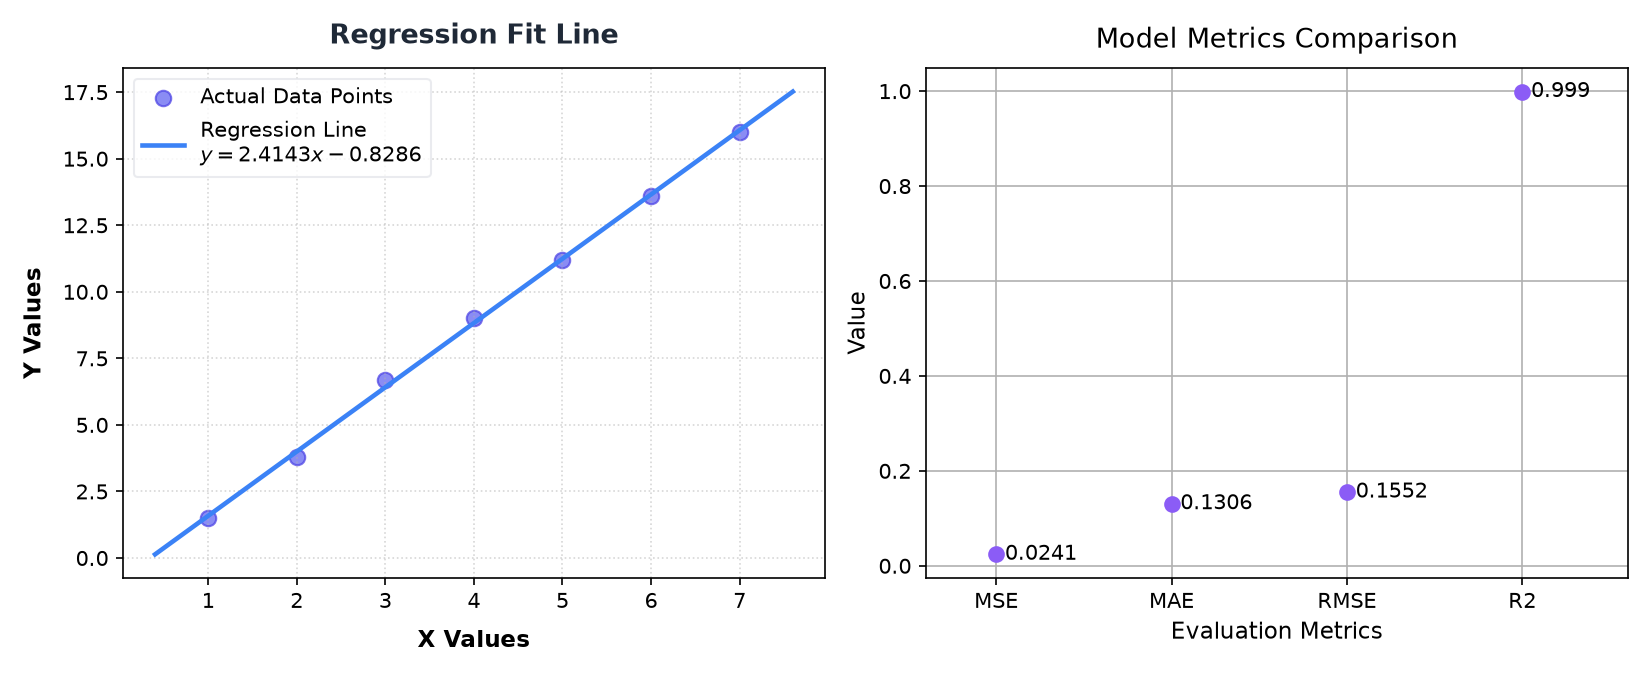
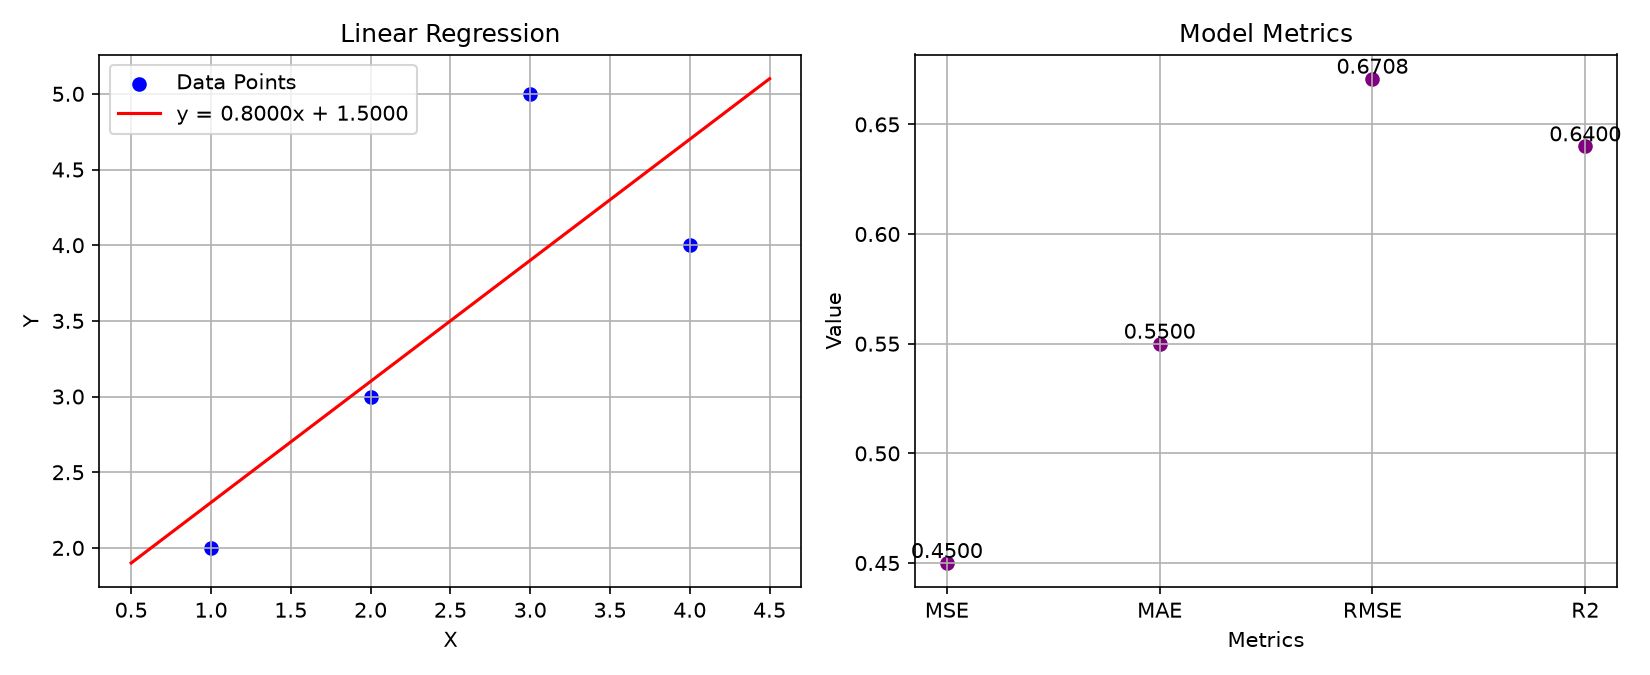
Simplify code to take exactly 4 data points and use loop-based calculations matching the lab manual

diff --git a/EXPT-1/index.html b/EXPT-1/index.html
@@ -90,8 +90,8 @@
                 throw new Error(`Length mismatch: X has ${x.length} values, Y has ${y.length} values.`);
             }
 
-            if (x.length === 0) {
-                throw new Error("Arrays cannot be empty.");
+            if (x.length !== 4) {
+                throw new Error(`Exactly 4 data points are required. Currently, you have entered ${x.length}.`);
             }
 
             return { x, y };
@@ -161,44 +161,61 @@
                 }
 
                 const n = x.length;
-                const meanX = x.reduce((a, b) => a + b, 0) / n;
-                const meanY = y.reduce((a, b) => a + b, 0) / n;
-
-                let numerator = 0;
-                let denominator = 0;
+                
+                let sumX = 0;
+                let sumY = 0;
+                let sumXY = 0;
+                let sumXX = 0;
                 for (let i = 0; i < n; i++) {
-                    numerator += (x[i] - meanX) * (y[i] - meanY);
-                    denominator += Math.pow(x[i] - meanX, 2);
+                    sumX += x[i];
+                    sumY += y[i];
+                    sumXY += x[i] * y[i];
+                    sumXX += x[i] * x[i];
                 }
-
+                
+                const denominator = (n * sumXX) - (sumX * sumX);
                 if (denominator === 0) {
-                    throw new Error("Cannot calculate regression slope (all X values are identical).");
+                    throw new Error("Cannot calculate regression slope (denominator is 0).");
                 }
-
-                const m = numerator / denominator;
-                const c = meanY - (m * meanX);
-                const yPred = x.map(val => m * val + c);
-
-                let absErrSum = 0;
-                let sqErrSum = 0;
-                let totVarSum = 0;
-
+                
+                const m = ((n * sumXY) - (sumX * sumY)) / denominator;
+                const c = (sumY - (m * sumX)) / n;
+                
+                const yPred = [];
                 for (let i = 0; i < n; i++) {
-                    const diff = y[i] - yPred[i];
-                    absErrSum += Math.abs(diff);
-                    sqErrSum += Math.pow(diff, 2);
-                    totVarSum += Math.pow(y[i] - meanY, 2);
+                    yPred.push(m * x[i] + c);
                 }
-
-                const mae = absErrSum / n;
-                const mse = sqErrSum / n;
+                
+                let maeSum = 0;
+                let mseSum = 0;
+                for (let i = 0; i < n; i++) {
+                    const error = y[i] - yPred[i];
+                    maeSum += Math.abs(error);
+                    mseSum += Math.pow(error, 2);
+                }
+                
+                const mae = maeSum / n;
+                const mse = mseSum / n;
                 const rmse = Math.sqrt(mse);
-
+                
+                let sumY_val = 0;
+                for (let i = 0; i < n; i++) {
+                    sumY_val += y[i];
+                }
+                const meanY = sumY_val / n;
+                
+                let ss_res = 0;
+                let ss_tot = 0;
+                for (let i = 0; i < n; i++) {
+                    ss_res += Math.pow(y[i] - yPred[i], 2);
+                    ss_tot += Math.pow(y[i] - meanY, 2);
+                }
+                
                 let r2;
-                if (totVarSum === 0) {
-                    r2 = sqErrSum === 0 ? 1.0 : -Infinity;
+                if (ss_tot === 0) {
+                    r2 = ss_res === 0 ? 1.0 : -Infinity;
                 } else {
-                    r2 = 1.0 - (sqErrSum / totVarSum);
+                    r2 = 1.0 - (ss_res / ss_tot);
                 }
 
                 const cSign = c >= 0 ? '+' : '-';

diff --git a/EXPT-1/app.py b/EXPT-1/app.py
@@ -1,8 +1,6 @@
 from flask import Flask, request, jsonify, send_from_directory
-import os
 import io
 import base64
-import numpy as np
 import matplotlib
 matplotlib.use('Agg')
 import matplotlib.pyplot as plt
@@ -10,134 +8,89 @@ import matplotlib.pyplot as plt
 app = Flask(__name__, static_folder='.', static_url_path='')
 
 def calculate_linear_regression(x, y):
-    x_arr = np.asarray(x, dtype=float)
-    y_arr = np.asarray(y, dtype=float)
-    n = len(x_arr)
-    if n == 0:
-        raise ValueError("Data lists cannot be empty.")
-    if len(x_arr) != len(y_arr):
-        raise ValueError("X and Y lists must have the same length.")
+    n = 4
+    sumX, sumY = sum(x), sum(y)
+    sumXY = sum(x[i] * y[i] for i in range(n))
+    sumXX = sum(x[i]**2 for i in range(n))
     
-    mean_x = np.mean(x_arr)
-    mean_y = np.mean(y_arr)
-    numerator = np.sum((x_arr - mean_x) * (y_arr - mean_y))
-    denominator = np.sum((x_arr - mean_x) ** 2)
-    if denominator == 0:
-        raise ValueError("Cannot calculate slope (all X values are identical, resulting in a vertical line).")
-    m = numerator / denominator
-    c = mean_y - m * mean_x
-    return float(m), float(c)
+    denom = (n * sumXX) - (sumX**2)
+    if denom == 0:
+        raise ValueError("Denominator is 0.")
+        
+    m = ((n * sumXY) - (sumX * sumY)) / denom
+    c = (sumY - m * sumX) / n
+    return m, c
 
-def calculate_metrics(y_true, y_pred):
-    y_true = np.asarray(y_true, dtype=float)
-    y_pred = np.asarray(y_pred, dtype=float)
-    n = len(y_true)
-    if n == 0:
-        raise ValueError("Input lists cannot be empty.")
-    if len(y_true) != len(y_pred):
-        raise ValueError("y_true and y_pred lists must have the same length.")
+def calculate_metrics(y, y_pred):
+    n = 4
+    mae = sum(abs(y[i] - y_pred[i]) for i in range(n)) / n
+    mse = sum((y[i] - y_pred[i])**2 for i in range(n)) / n
+    rmse = mse**0.5
     
-    mean_y_true = np.mean(y_true)
-    mae = np.mean(np.abs(y_true - y_pred))
-    mse = np.mean((y_true - y_pred) ** 2)
-    rmse = np.sqrt(mse)
+    mean_y = sum(y) / n
+    ss_res = sum((y[i] - y_pred[i])**2 for i in range(n))
+    ss_tot = sum((y[i] - mean_y)**2 for i in range(n))
+    r_squared = 1 - (ss_res / ss_tot) if ss_tot != 0 else 1.0
     
-    ss_residual = np.sum((y_true - y_pred) ** 2)
-    ss_total = np.sum((y_true - mean_y_true) ** 2)
-    
-    if ss_total == 0:
-        r_squared = 1.0 if ss_residual == 0 else float('-inf')
-    else:
-        r_squared = 1.0 - (ss_residual / ss_total)
-    
-    return float(mae), float(mse), float(rmse), float(r_squared)
+    return mae, mse, rmse, r_squared
 
 def generate_metrics_graph(x, y, m, c, mae, mse, rmse, r_squared):
-    x_arr = np.asarray(x, dtype=float)
-    y_arr = np.asarray(y, dtype=float)
-    
     fig, (ax1, ax2) = plt.subplots(1, 2, figsize=(11, 4.5))
     
-    ax1.scatter(x_arr, y_arr, color='#6366f1', edgecolor='#4f46e5', s=55, alpha=0.75, label='Actual Data Points')
+    # Left subplot: Regression Fit Line
+    ax1.scatter(x, y, color='blue', label='Data Points')
+    x_line = [min(x) - 0.5, max(x) + 0.5]
+    y_line = [m * val + c for val in x_line]
+    ax1.plot(x_line, y_line, color='red', label=f'y = {m:.4f}x + {c:.4f}')
+    ax1.set_title('Linear Regression')
+    ax1.set_xlabel('X')
+    ax1.set_ylabel('Y')
+    ax1.legend()
+    ax1.grid(True)
     
-    min_x = x_arr.min()
-    max_x = x_arr.max()
-    padding_x = (max_x - min_x) * 0.1 if max_x != min_x else 1.0
-    x_line = np.linspace(min_x - padding_x, max_x + padding_x, 100)
-    y_line = m * x_line + c
-    
-    c_sign = '+' if c >= 0 else '-'
-    line_label = f'Regression Line\n$y = {m:.4f}x {c_sign} {abs(c):.4f}$'
-    ax1.plot(x_line, y_line, color='#3b82f6', linestyle='-', linewidth=2.2, label=line_label)
-    
-    ax1.set_xlabel('X Values', fontsize=11, fontweight='bold', labelpad=8)
-    ax1.set_ylabel('Y Values', fontsize=11, fontweight='bold', labelpad=8)
-    ax1.set_title('Regression Fit Line', fontsize=13, fontweight='bold', pad=12, color='#1f2937')
-    ax1.legend(loc='best', frameon=True, facecolor='#ffffff', edgecolor='#e5e7eb')
-    ax1.grid(True, linestyle=':', alpha=0.5)
-    
+    # Right subplot: Model Metrics
     metrics_labels = ['MSE', 'MAE', 'RMSE', 'R2']
     metrics_values = [mse, mae, rmse, r_squared]
-    
-    ax2.plot(metrics_labels, metrics_values, 'o', color='#8b5cf6', markersize=7)
-    
-    ax2.set_xlabel('Evaluation Metrics', fontsize=11, fontweight='normal')
-    ax2.set_ylabel('Value', fontsize=11, fontweight='normal')
-    ax2.set_title('Model Metrics Comparison', fontsize=13, fontweight='normal', pad=10)
-    ax2.grid(True)
-    ax2.set_xlim(-0.4, 3.6)
-    
+    ax2.scatter(metrics_labels, metrics_values, color='purple')
     for i, val in enumerate(metrics_values):
-        if metrics_labels[i] == 'R2' and (r_squared == float('-inf') or np.isneginf(r_squared)):
-            text_str = '-inf'
-        else:
-            text_str = f"{val:.4f}"
-            while text_str.endswith('0') and len(text_str.split('.')[1]) > 2:
-                text_str = text_str[:-1]
-        
-        ax2.text(i + 0.05, val, text_str, fontsize=10, va='center', ha='left')
+        ax2.text(metrics_labels[i], val, f"{val:.4f}", va='bottom', ha='center')
+    ax2.set_title('Model Metrics')
+    ax2.set_xlabel('Metrics')
+    ax2.set_ylabel('Value')
+    ax2.grid(True)
     
     plt.tight_layout()
-    
     buf = io.BytesIO()
     plt.savefig(buf, format='png', dpi=150)
     plt.close(fig)
-    buf.seek(0)
-    
-    img_base64 = base64.b64encode(buf.getvalue()).decode('utf-8')
-    return img_base64
+    return base64.b64encode(buf.getvalue()).decode('utf-8')
+
 @app.route('/')
 def index():
     return send_from_directory(app.static_folder, 'index.html')
+
 @app.route('/calculate', methods=['POST'])
 def calculate():
     try:
-        data = request.get_json()
-        if not data:
-            return jsonify({'status': 'error', 'message': 'No inputs provided.'}), 400
-        x = data.get('x', [])
-        y = data.get('y', [])
+        data = request.get_json() or {}
+        x, y = data.get('x', []), data.get('y', [])
+        if len(x) != 4 or len(y) != 4:
+            return jsonify({'status': 'error', 'message': 'Exactly 4 data points are required.'}), 400
+        
         m, c = calculate_linear_regression(x, y)
-        x_arr = np.asarray(x, dtype=float)
-        y_pred_arr = m * x_arr + c
-        y_pred = y_pred_arr.tolist()
+        y_pred = [m * val + c for val in x]
         mae, mse, rmse, r_squared = calculate_metrics(y, y_pred)
         graph_base64 = generate_metrics_graph(x, y, m, c, mae, mse, rmse, r_squared)
+        
         return jsonify({
             'status': 'success',
-            'm': m,
-            'c': c,
-            'mae': mae,
-            'mse': mse,
-            'rmse': rmse,
-            'r_squared': r_squared,
+            'm': m, 'c': c,
+            'mae': mae, 'mse': mse, 'rmse': rmse, 'r_squared': r_squared,
             'y_pred': y_pred,
             'metrics_graph': graph_base64
         })
     except Exception as e:
-        return jsonify({
-            'status': 'error',
-            'message': str(e)
-        }), 400
+        return jsonify({'status': 'error', 'message': str(e)}), 400
+
 if __name__ == '__main__':
     app.run(debug=True, host='127.0.0.1', port=8000)
